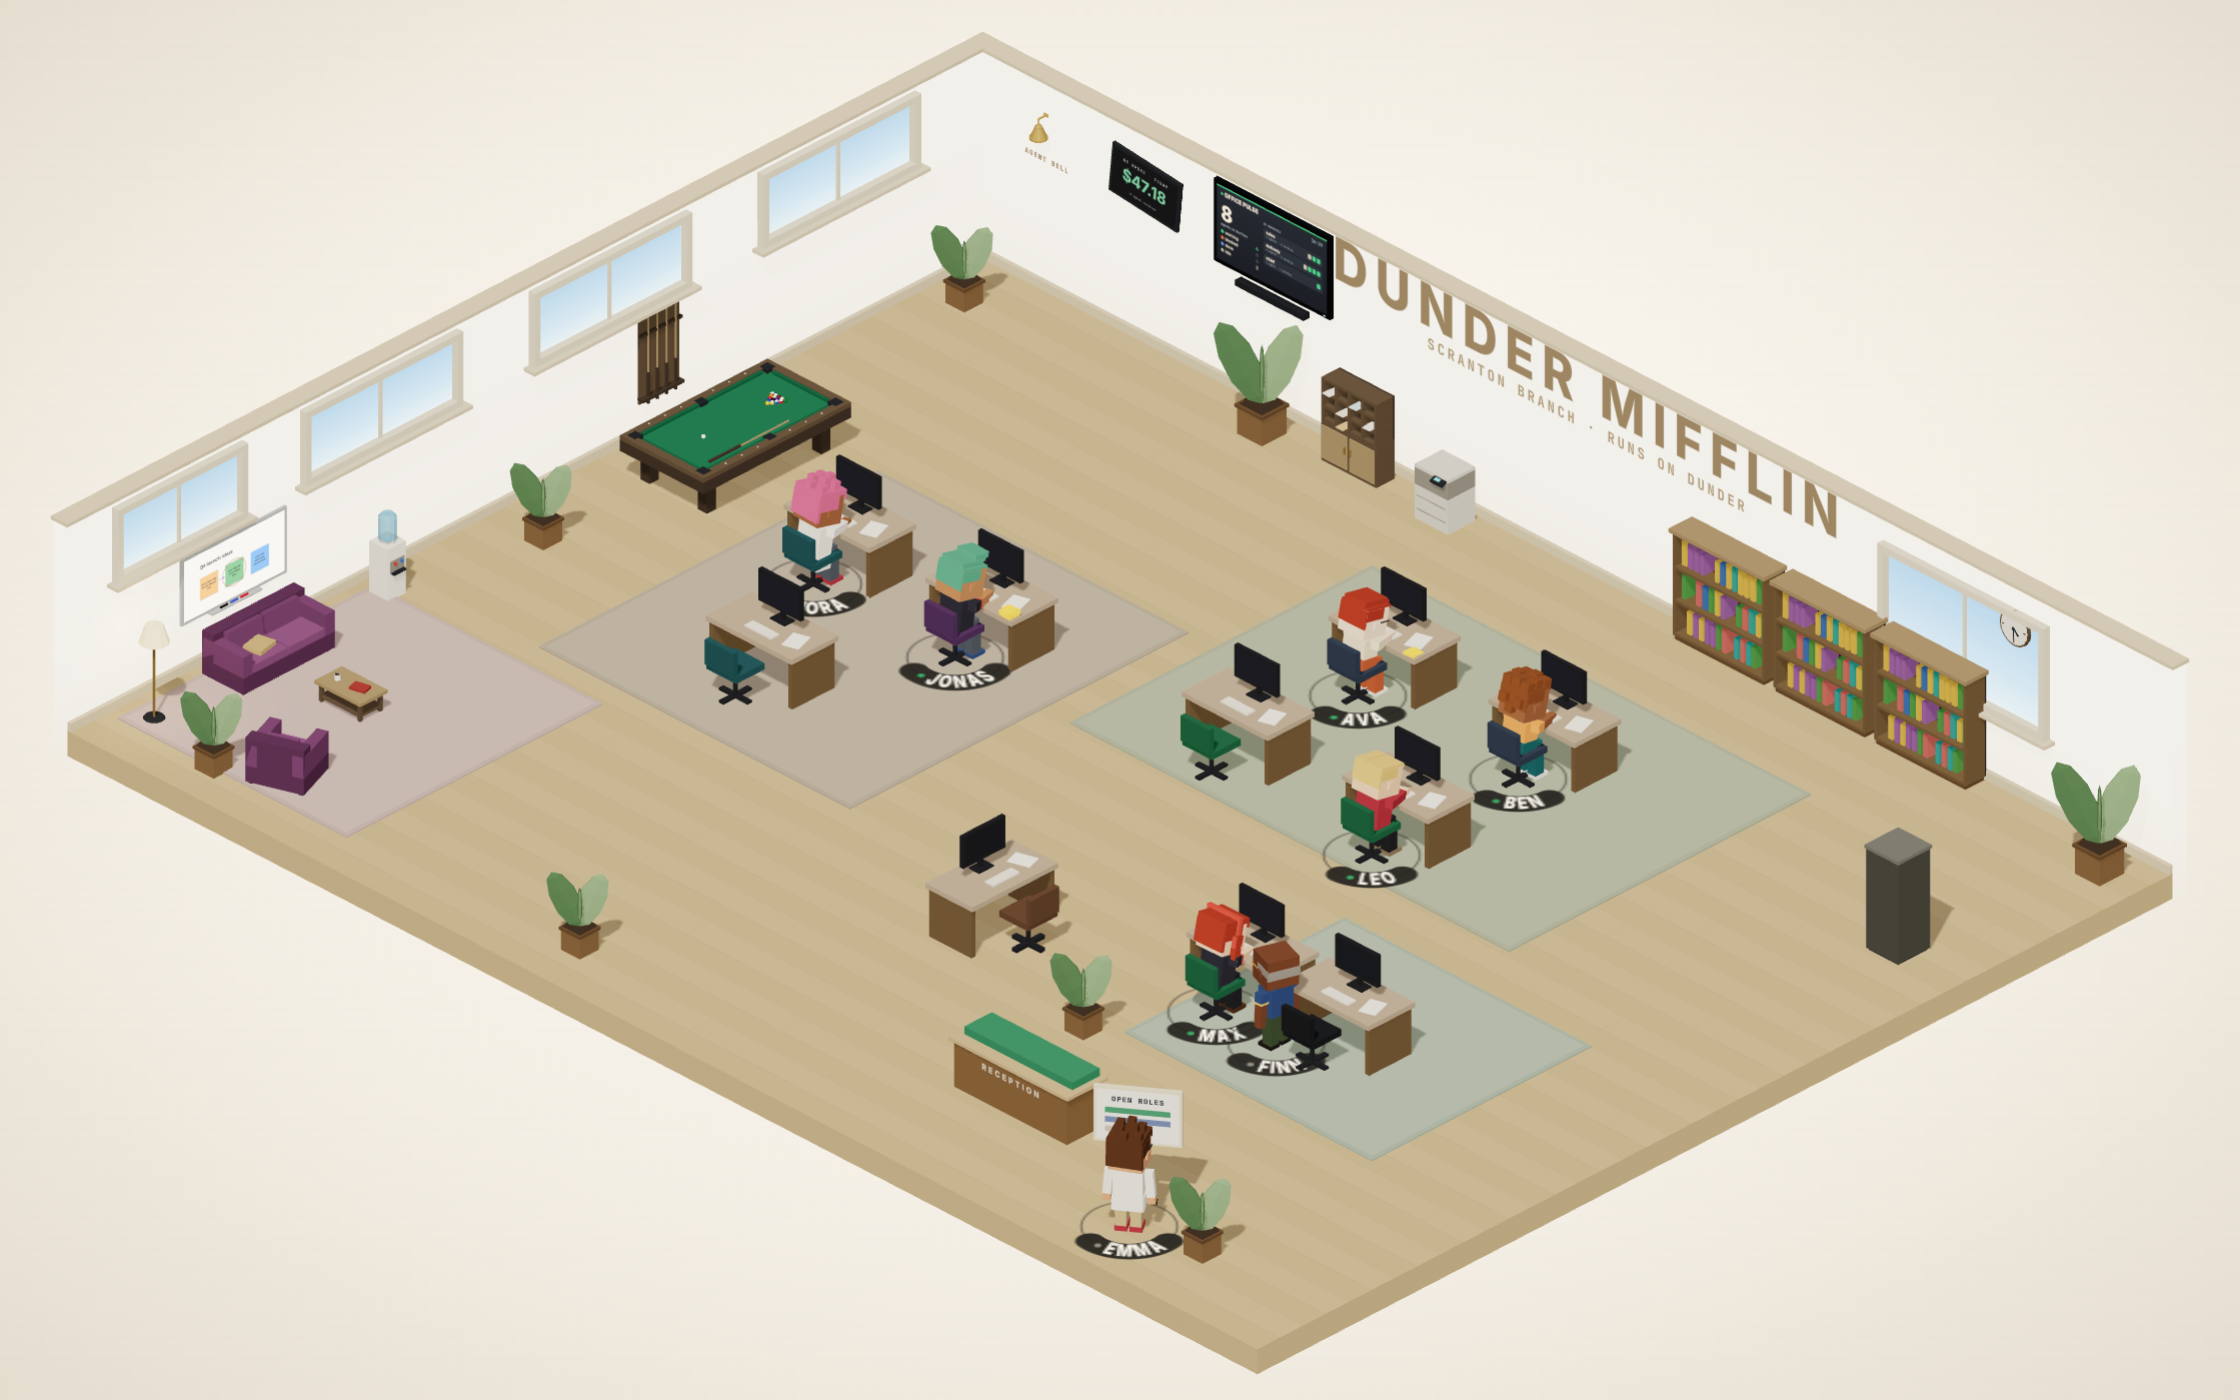
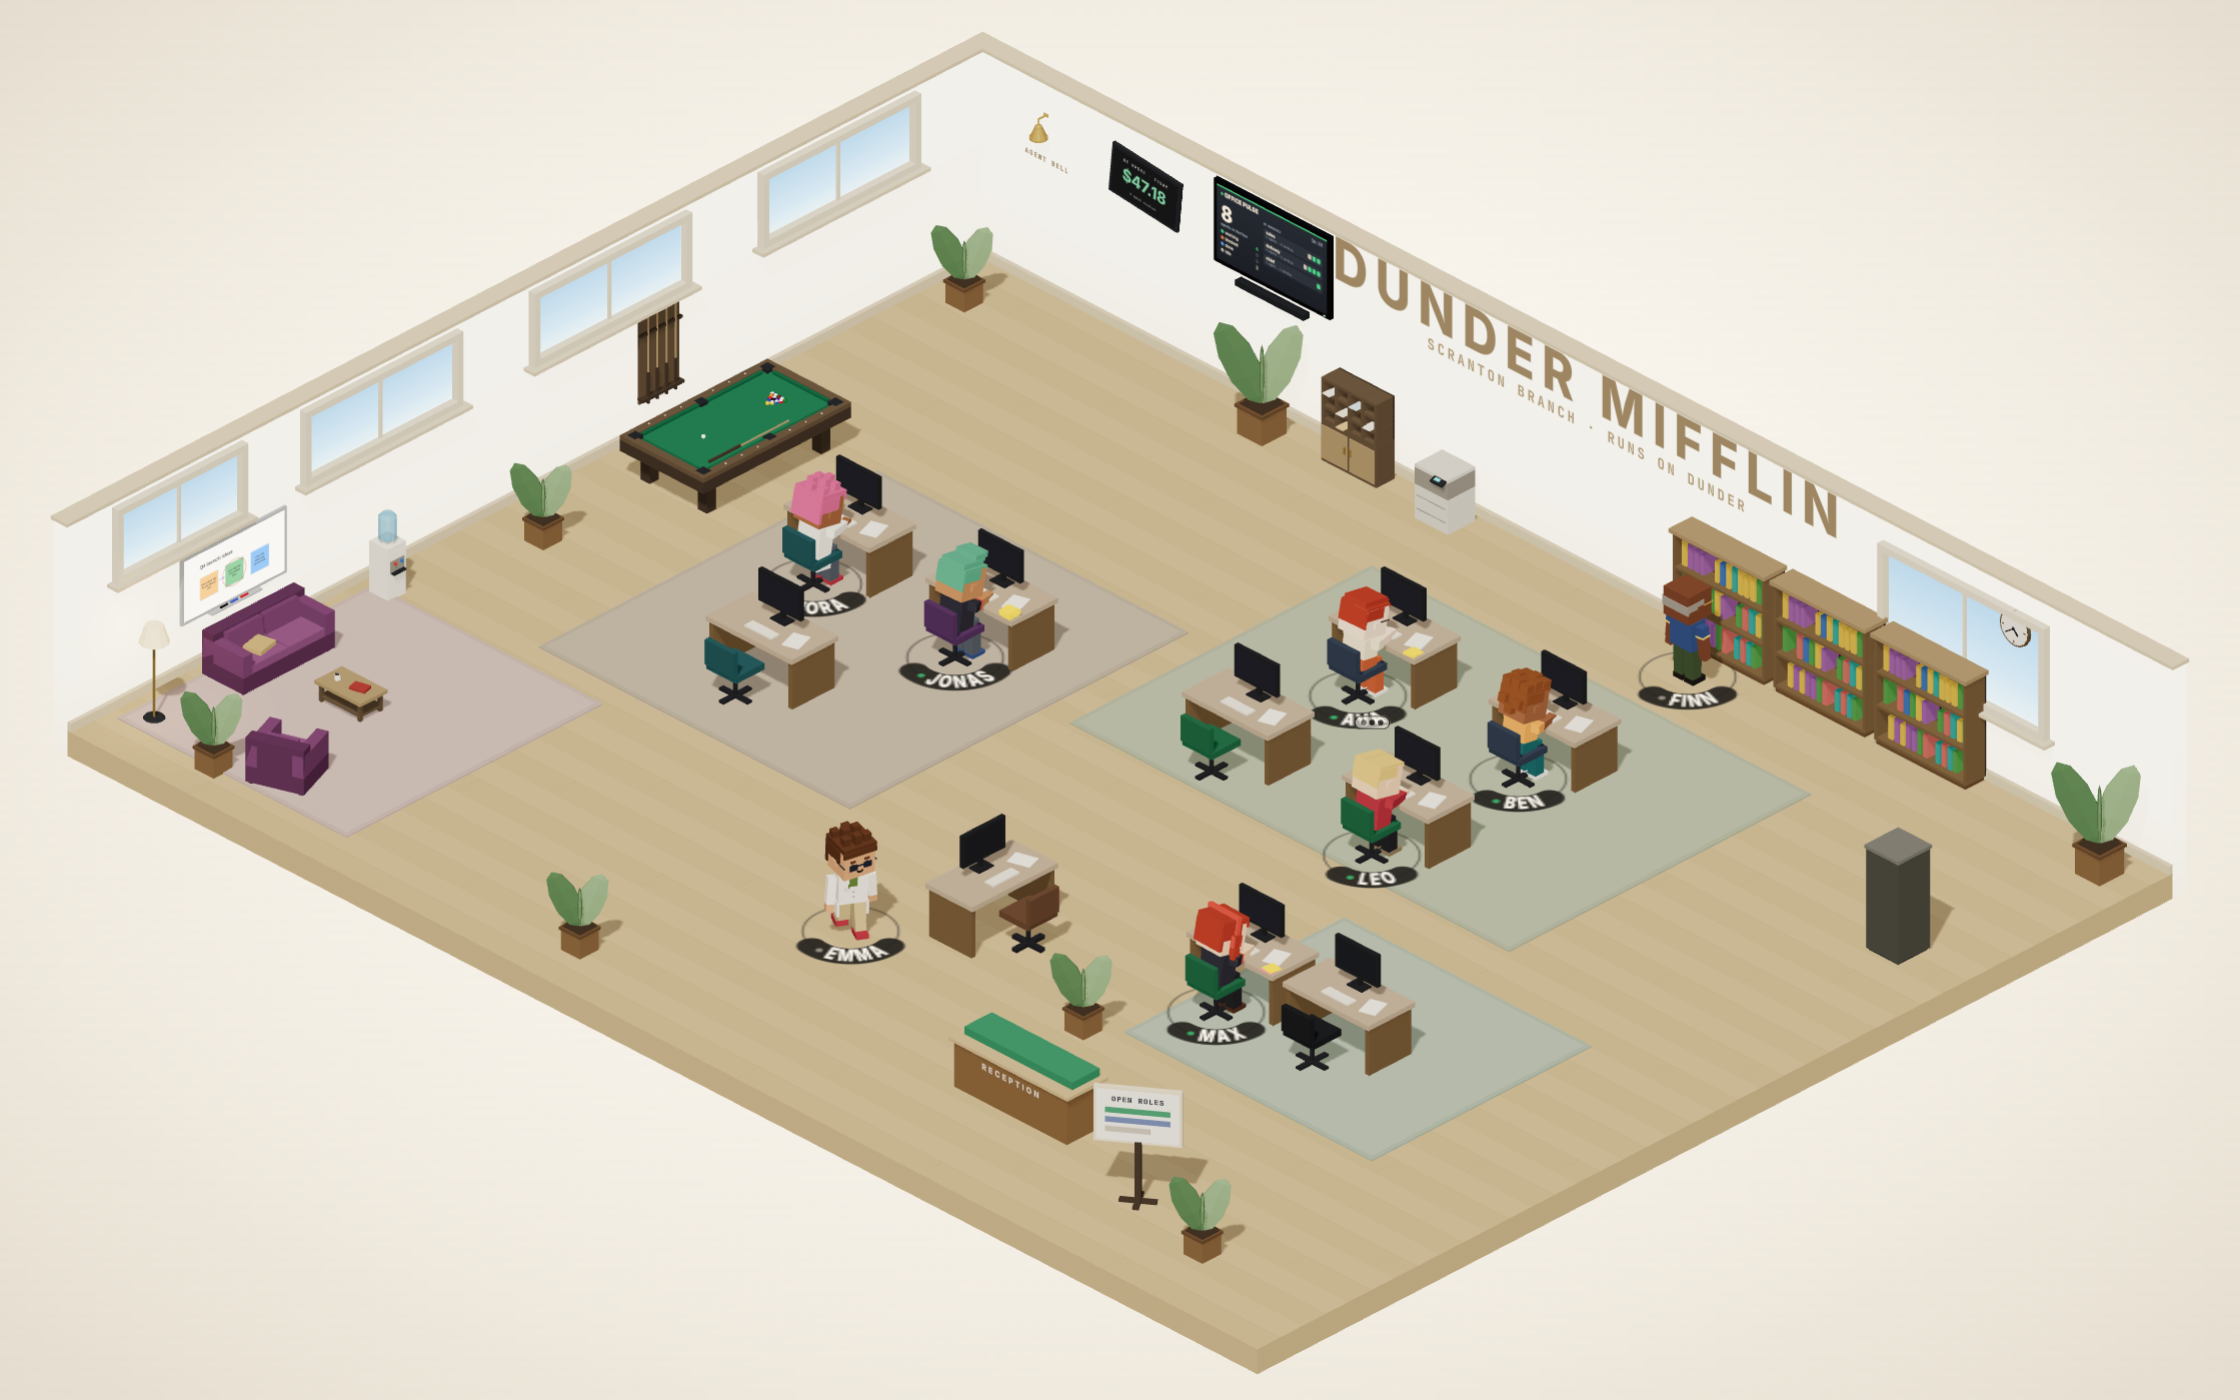
office-d4o: waiting thought bubble becomes a faint mark over the head; words only on hover

diff --git a/src/renderer/src/features/office/conversations/SpeechBubble.tsx b/src/renderer/src/features/office/conversations/SpeechBubble.tsx
@@ -3,8 +3,11 @@ import { Html } from "@react-three/drei";
 import { type ReactNode, useEffect, useState } from "react";
 import { freshPost, useBoardPosts } from "../../brainstorm/board-posts";
 import { speechFor, useConversations } from "./conversation-store";
+import { speechView } from "./speech-view";
 
 const MAX_CHARS = 140;
+/** The waiting mark sits this much lower than a bubble's anchor: just over the head, not floating. */
+const MARK_DROP = 0.4;
 const OVERLAY_STYLE = { pointerEvents: "none" } as const;
 
 /** Re-render once a second so bubbles expire on time. */
@@ -21,54 +24,86 @@ function clip(text: string): string {
 	return text.length > MAX_CHARS ? `${text.slice(0, MAX_CHARS - 1)}…` : text;
 }
 
-function Bubble(props: {
-	readonly height: number;
-	readonly kind: string;
-	readonly children: ReactNode;
-}) {
+/** Screen-space overlay at `height` over the agent; never takes the pointer. */
+function Overlay(props: { readonly height: number; readonly children: ReactNode }) {
 	return (
 		<Html position={[0, props.height, 0]} center zIndexRange={[60, 50]} style={OVERLAY_STYLE}>
-			<div className={`speech-bubble speech-${props.kind}`}>{props.children}</div>
+			{props.children}
 		</Html>
 	);
 }
 
+function Bubble(props: {
+	readonly kind: string;
+	readonly to: string;
+	readonly children: ReactNode;
+}) {
+	return (
+		<div className={`speech-bubble speech-${props.kind}`}>
+			<span className="speech-to">→ {props.to.toUpperCase()}</span>
+			{props.children}
+		</div>
+	);
+}
+
 /**
- * A comic speech bubble over an agent while it talks to a colleague (or a
- * thought bubble while its message waits for the colleague to be free), or
- * reads out the note it just put on the whiteboard. Rendered in the agent's
- * body space, so it follows them as they walk.
+ * Over an agent: a comic speech bubble while it talks to a colleague, or
+ * reads out the note it just put on the whiteboard. While its message waits
+ * for the colleague to be free, only a faint "…" mark, with the words on
+ * hover. Rendered in the agent's body space, so it follows them as they walk.
  */
 export function SpeechBubble({
 	agentName,
 	height,
+	hovered,
 }: {
 	readonly agentName: string;
 	readonly height: number;
+	/** The pointer is over this agent: reveal the waiting caption. */
+	readonly hovered: boolean;
 }) {
 	const heard = useConversations((state) => state.heard);
 	const posts = useBoardPosts((state) => state.posts);
 	const now = useNow();
 	const speech = speechFor(heard, agentName, now);
 	const post = speech ? undefined : freshPost(posts, agentName, now);
-	if (post) {
-		return (
-			<Bubble height={height} kind="saying">
-				<span className="speech-to">→ BOARD</span>
-				<p>{clip(post.text)}</p>
-			</Bubble>
-		);
+	const view = speechView(speech, post?.text, hovered);
+	if (!view) return null;
+	switch (view.kind) {
+		case "board":
+			return (
+				<Overlay height={height}>
+					<Bubble kind="saying" to="board">
+						<p>{clip(view.text)}</p>
+					</Bubble>
+				</Overlay>
+			);
+		case "saying":
+			return (
+				<Overlay height={height}>
+					<Bubble kind="saying" to={view.to}>
+						<p>{clip(view.text)}</p>
+					</Bubble>
+				</Overlay>
+			);
+		case "waiting":
+			if (view.caption === null) {
+				return (
+					<Overlay height={height - MARK_DROP}>
+						<span className="speech-waiting-mark" role="img" aria-label={`waiting for ${view.to}`}>
+							<i />
+							<i />
+							<i />
+						</span>
+					</Overlay>
+				);
+			}
+			return (
+				<Overlay height={height}>
+					<Bubble kind="waiting" to={view.to}>
+						<p className="speech-thought">{view.caption}</p>
+					</Bubble>
+				</Overlay>
+			);
 	}
-	if (!speech) return null;
-	const { message } = speech;
-	return (
-		<Bubble height={height} kind={speech.kind}>
-			<span className="speech-to">→ {message.to.toUpperCase()}</span>
-			{speech.kind === "saying" ? (
-				<p>{clip(message.text)}</p>
-			) : (
-				<p className="speech-thought">waiting for {message.to} to be free…</p>
-			)}
-		</Bubble>
-	);
 }

diff --git a/src/renderer/src/features/office/OfficeView.tsx b/src/renderer/src/features/office/OfficeView.tsx
@@ -1,10 +1,11 @@
 import { Canvas } from "@react-three/fiber";
 import type { Layout } from "@shared/layout/schema";
+import { useState } from "react";
 import { useChief } from "../chief/chief-store";
 import { EditLayer } from "../edit/EditLayer";
 import { useEdit } from "../edit/edit-store";
 import { useWorlds } from "./behaviour/useWorlds";
-import { AgentActor } from "./characters/AgentActor";
+import { AgentActor, type AgentActorProps } from "./characters/AgentActor";
 import { SpeechBubble } from "./conversations/SpeechBubble";
 import { useFocus } from "./focus/focus-store";
 import { openScreen } from "./focus/open-screen";
@@ -79,21 +80,37 @@ export function OfficeView({ layout, model }: OfficeViewProps) {
 				const world = worlds.get(agent.paneId);
 				if (!world) return null;
 				return (
-					<Clickable
+					<Colleague
 						key={agent.paneId}
+						agent={agent}
+						world={world}
+						phase={index * 0.7}
 						onSelect={() => select({ kind: "agent", paneId: agent.paneId })}
-					>
-						<AgentActor
-							agent={agent}
-							world={world}
-							phase={index * 0.7}
-							overlay={<SpeechBubble agentName={agent.name} height={2.35} />}
-						/>
-					</Clickable>
+					/>
 				);
 			})}
 			{editing ? <EditLayer layout={layout} /> : null}
 			<Callouts callouts={layout.callouts} />
 		</Canvas>
+	);
+}
+
+/** One agent in the room: clickable, with what they're saying overhead (and, on hover, what they wait for). */
+function Colleague({
+	agent,
+	world,
+	phase,
+	onSelect,
+}: Pick<AgentActorProps, "agent" | "world" | "phase"> & { readonly onSelect: () => void }) {
+	const [hovered, setHovered] = useState(false);
+	return (
+		<Clickable onSelect={onSelect} onHoverChange={setHovered}>
+			<AgentActor
+				agent={agent}
+				world={world}
+				phase={phase}
+				overlay={<SpeechBubble agentName={agent.name} height={2.35} hovered={hovered} />}
+			/>
+		</Clickable>
 	);
 }

diff --git a/src/renderer/src/features/office/conversations/speech-view.test.ts b/src/renderer/src/features/office/conversations/speech-view.test.ts
@@ -1,0 +1,40 @@
+import type { OfficeMessage } from "@shared/switchboard";
+import { describe, expect, it } from "vitest";
+import { speechView } from "./speech-view";
+
+const message: OfficeMessage = {
+	id: "1",
+	from: "mika",
+	to: "raina",
+	text: "line-up is ready",
+	sentAt: "2026-10-06T00:00:00.000Z",
+	state: "queued",
+};
+
+describe("speechView", () => {
+	it("shows a waiting message as a bare mark, with its words only while hovered", () => {
+		const waiting = { kind: "waiting", message } as const;
+		expect(speechView(waiting, undefined, false)).toEqual({
+			kind: "waiting",
+			to: "raina",
+			caption: null,
+		});
+		expect(speechView(waiting, undefined, true)).toEqual({
+			kind: "waiting",
+			to: "raina",
+			caption: "waiting for raina to be free…",
+		});
+	});
+
+	it("keeps spoken messages as full bubbles, hovered or not", () => {
+		const saying = { kind: "saying", message: { ...message, state: "delivered" } } as const;
+		const shown = { kind: "saying", to: "raina", text: "line-up is ready" };
+		expect(speechView(saying, undefined, false)).toEqual(shown);
+		expect(speechView(saying, undefined, true)).toEqual(shown);
+	});
+
+	it("reads out a fresh board note only when there is no conversation", () => {
+		expect(speechView(undefined, "pf2 first", false)).toEqual({ kind: "board", text: "pf2 first" });
+		expect(speechView(undefined, undefined, true)).toBeUndefined();
+	});
+});

diff --git a/src/renderer/src/features/office/interaction/Clickable.tsx b/src/renderer/src/features/office/interaction/Clickable.tsx
@@ -7,12 +7,18 @@ export interface ClickableProps {
 	readonly children: ReactNode;
 	/** Radius of the highlight ring drawn on the floor while hovered; none if omitted. */
 	readonly ring?: number;
+	/** Told when the pointer enters or leaves, e.g. to reveal a caption. */
+	readonly onHoverChange?: (hovered: boolean) => void;
 }
 
 /** Makes a piece of the world hoverable (pointer + floor ring) and clickable. */
-export function Clickable({ onSelect, children, ring }: ClickableProps) {
+export function Clickable({ onSelect, children, ring, onHoverChange }: ClickableProps) {
 	const [hovered, setHovered] = useState(false);
 	useCursor(hovered);
+	const hover = (next: boolean): void => {
+		setHovered(next);
+		onHoverChange?.(next);
+	};
 	return (
 		// biome-ignore lint/a11y/noStaticElementInteractions: a three.js <group>, not DOM; R3F delivers raycast pointer events.
 		<group
@@ -22,9 +28,9 @@ export function Clickable({ onSelect, children, ring }: ClickableProps) {
 			}}
 			onPointerOver={(event: ThreeEvent<PointerEvent>) => {
 				event.stopPropagation();
-				setHovered(true);
+				hover(true);
 			}}
-			onPointerOut={() => setHovered(false)}
+			onPointerOut={() => hover(false)}
 		>
 			{children}
 			{ring !== undefined && hovered ? (

diff --git a/scripts/scene-shot/page/fake-office.ts b/scripts/scene-shot/page/fake-office.ts
@@ -1,6 +1,7 @@
 import { type SessionSnapshot, sessionSnapshotSchema } from "@shared/herdr/schema";
 import type { OfficeApi } from "@shared/ipc";
 import { type MailQueue, previewOf, type QueuedNote } from "@shared/mail-queue";
+import type { OfficeMessage } from "@shared/switchboard";
 import { fakeWhiteboard } from "./fake-board";
 
 /**
@@ -93,9 +94,22 @@ let mailQueue: MailQueue = {
 	),
 };
 
-/** The profiler measures the office with no notes unless `?notes` is in its URL. */
+/** leo's note to max, still waiting for max to be free: the shots show its waiting mark. */
+let switchboardRecent: OfficeMessage[] = [
+	{
+		id: "max-leo-0",
+		from: "leo",
+		to: "max",
+		text: "Library sync done, 14 new memories",
+		sentAt: "2026-10-06T13:00:00.000Z",
+		state: "queued",
+	},
+];
+
+/** The profiler measures the office with no notes or waiting mail unless `?notes` is in its URL. */
 export function withoutSampleMail(): void {
 	mailQueue = {};
+	switchboardRecent = [];
 }
 
 const fakeOffice = {
@@ -120,7 +134,7 @@ const fakeOffice = {
 		startNow: async () => undefined,
 	},
 	switchboard: {
-		recent: async () => [],
+		recent: async () => switchboardRecent,
 		onMessage: () => unsubscribe,
 	},
 	mailQueue: {

diff --git a/src/renderer/src/features/office/conversations/speech-view.ts b/src/renderer/src/features/office/conversations/speech-view.ts
@@ -1,0 +1,24 @@
+import type { Speech } from "./conversation-store";
+
+/** What floats over an agent: a bubble that speaks, or the faint waiting mark. */
+export type SpeechView =
+	| { readonly kind: "board"; readonly text: string }
+	| { readonly kind: "saying"; readonly to: string; readonly text: string }
+	/** A message waits for its recipient: a small mark, with the words only on hover. */
+	| { readonly kind: "waiting"; readonly to: string; readonly caption: string | null };
+
+/**
+ * Pick what to show over an agent. A fresh whiteboard note is read out only
+ * while the agent isn't in a conversation; a waiting message shows its
+ * caption only while the pointer is over the agent, so it never covers the room.
+ */
+export function speechView(
+	speech: Speech | undefined,
+	postText: string | undefined,
+	hovered: boolean,
+): SpeechView | undefined {
+	if (!speech) return postText === undefined ? undefined : { kind: "board", text: postText };
+	const { to, text } = speech.message;
+	if (speech.kind === "saying") return { kind: "saying", to, text };
+	return { kind: "waiting", to, caption: hovered ? `waiting for ${to} to be free…` : null };
+}

diff --git a/src/renderer/src/features/office/conversations/speech.css b/src/renderer/src/features/office/conversations/speech.css
@@ -43,7 +43,7 @@
 	color: #d9cfbd;
 }
 
-/* Thought bubble: the message waits until the colleague is free. */
+/* Hover caption of a waiting message: the colleague isn't free yet. */
 .speech-waiting {
 	background: #3a3631e6;
 	box-shadow:
@@ -63,4 +63,27 @@
 /* No italic: only upright JetBrains Mono is loaded, and a synthesized slant smears. */
 .speech-thought {
 	color: #cfc6b6;
+}
+
+/*
+ * The waiting mark: a faint "…" pill just over the head while a message waits,
+ * small enough to see past. Paper with a dark rim and dots, so it reads over
+ * both the floor and dark furniture. The words show only on hover.
+ */
+.speech-waiting-mark {
+	display: flex;
+	gap: 2.5px;
+	align-items: center;
+	padding: 3px 5px;
+	border-radius: 999px;
+	background: #fbf6ec;
+	box-shadow: inset 0 0 0 1px #26231f;
+	opacity: 0.6;
+}
+
+.speech-waiting-mark i {
+	width: 3.5px;
+	height: 3.5px;
+	border-radius: 50%;
+	background: #26231f;
 }

diff --git a/scripts/scene-shot/page/office-scene.tsx b/scripts/scene-shot/page/office-scene.tsx
@@ -1,4 +1,5 @@
 import { useOfficeSession } from "@renderer/features/herdr/useOfficeSession";
+import { connectConversations } from "@renderer/features/office/conversations/conversation-store";
 import { connectMailQueue } from "@renderer/features/office/mail/mail-queue-store";
 import { useOfficeModel } from "@renderer/features/office/model/office-model";
 import { OfficeView } from "@renderer/features/office/OfficeView";
@@ -10,6 +11,7 @@ export function Scene() {
 	const { snapshot } = useOfficeSession();
 	const model = useOfficeModel(DEFAULT_LAYOUT, snapshot);
 	useEffect(connectMailQueue, []);
+	useEffect(connectConversations, []);
 	return (
 		<div className="office-app" data-view="office">
 			<OfficeView layout={DEFAULT_LAYOUT} model={model} />

diff --git a/src/renderer/src/features/office/conversations/conversation-store.ts b/src/renderer/src/features/office/conversations/conversation-store.ts
@@ -45,7 +45,7 @@ export type Speech =
 
 /**
  * What an agent is saying right now: a just-delivered message (speech bubble),
- * or one still waiting for its recipient to be free (thought bubble).
+ * or one still waiting for its recipient to be free (a faint waiting mark).
  */
 export function speechFor(
 	heard: readonly Heard[],
